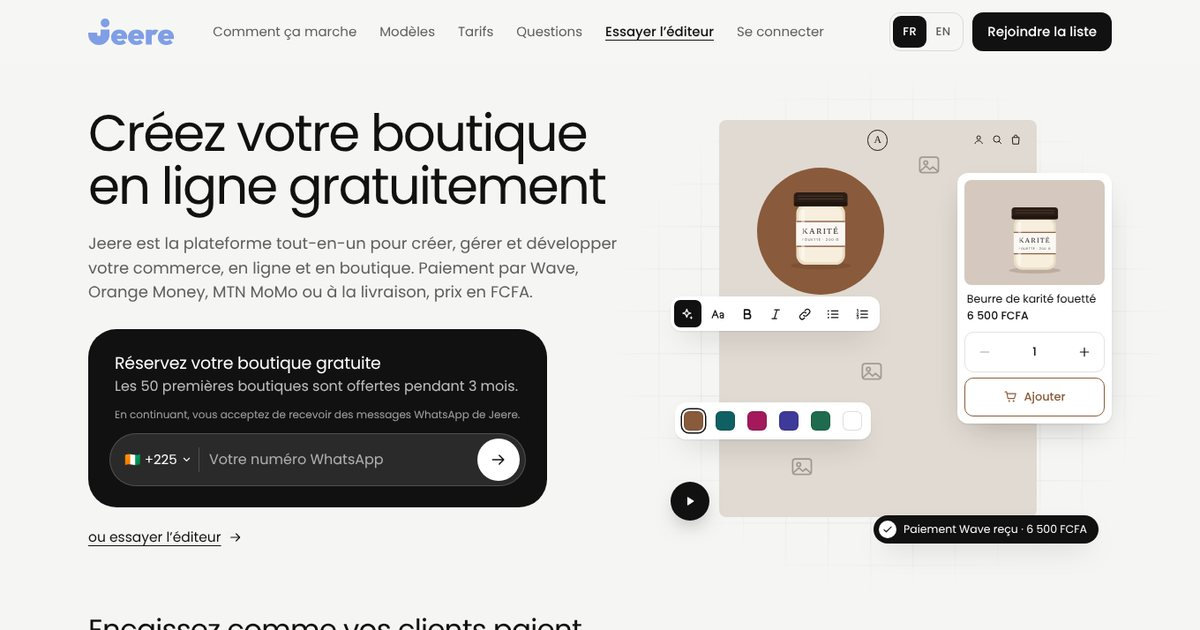
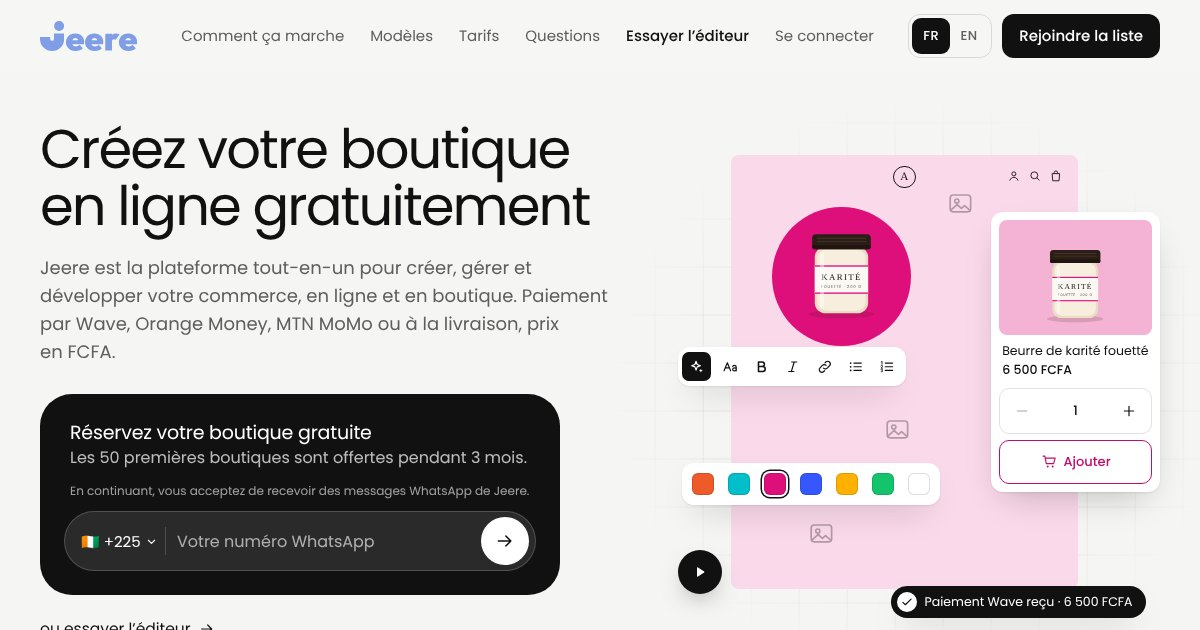
Jeere: pop, vivid store colours
The 8 store palettes get bright, saturated accents (terracotta, turquoise,
fuchsia, electric blue, mango yellow, green, lime) on a light tint of the
same hue. Ids and colour families stay, so the assistant's colour words
still pick the same palette. Bright accents carry dark text; pink and blue
carry white. The accent is a fill only: outline buttons now draw their
border in the readable accent ink, and the WhatsApp block's secondary text
uses onAccentSoft, so the audit finds no text under 4.5:1.

The landing hero swatches (now with Mangue), the template mock-ups, the
editor's palette chips (the strong colour fills the chip) and the share
image follow the new colours.

Claude-Session: https://claude.ai/code/session_01TKxGnF4zXs9pxkErArM8zK

diff --git a/concepts/jeere/style.css b/concepts/jeere/style.css
@@ -227,25 +227,28 @@ ul, ol { padding: 0; list-style: none; }
 /* ---------- Editor canvas (hero) ----------
    A store page being edited, on a faint grid, with floating editor tools. Its colours come from
    --hc-* (the store palette); the swatches change data-tint, and the registered properties fade. */
-@property --hc-accent { syntax: '<color>'; inherits: true; initial-value: #8A5A3C; }
-@property --hc-bg { syntax: '<color>'; inherits: true; initial-value: #E1DAD3; }
-@property --hc-soft { syntax: '<color>'; inherits: true; initial-value: #D6CABF; }
+@property --hc-accent { syntax: '<color>'; inherits: true; initial-value: #EE5A2A; }
+@property --hc-bg { syntax: '<color>'; inherits: true; initial-value: #FCE5DD; }
+@property --hc-soft { syntax: '<color>'; inherits: true; initial-value: #FACABB; }
+@property --hc-deep { syntax: '<color>'; inherits: true; initial-value: #B8380F; }
 .cv {
   --hc-ink: #1A1512;
-  --hc-accent: #8A5A3C;
-  --hc-bg: color-mix(in srgb, var(--hc-accent) 12%, #EDEBE7);
-  --hc-soft: color-mix(in srgb, var(--hc-accent) 24%, #EDEBE7);
+  --hc-accent: #EE5A2A;
+  --hc-deep: #B8380F; /* the accent deepened to 4.5:1 on white: the "Ajouter" button text */
+  --hc-bg: color-mix(in srgb, var(--hc-accent) 16%, #FFFFFF);
+  --hc-soft: color-mix(in srgb, var(--hc-accent) 32%, #FFFFFF);
   position: relative; width: 100%; max-width: 540px; margin: 0 auto; aspect-ratio: 330 / 490;
   font-size: 11px; font-size: clamp(10px, 2.6cqw, 13px);
-  transition: --hc-accent .4s ease, --hc-bg .4s ease, --hc-soft .4s ease;
+  transition: --hc-accent .4s ease, --hc-bg .4s ease, --hc-soft .4s ease, --hc-deep .4s ease;
 }
-.cv[data-tint="lagune"] { --hc-accent: #0F5F63; }
-.cv[data-tint="hibiscus"] { --hc-accent: #A3195B; }
-.cv[data-tint="indigo"] { --hc-accent: #3E3A99; }
-.cv[data-tint="menthe"] { --hc-accent: #1E6B4E; }
-.cv[data-tint="blanc"] { --hc-accent: #111111; --hc-bg: #FFFFFF; --hc-soft: #EFEEEB; }
+.cv[data-tint="lagune"] { --hc-accent: #00BFCB; --hc-deep: #007279; }
+.cv[data-tint="hibiscus"] { --hc-accent: #DE0F7B; --hc-deep: #C10D6B; }
+.cv[data-tint="indigo"] { --hc-accent: #3657FF; --hc-deep: #2C4EFF; }
+.cv[data-tint="mangue"] { --hc-accent: #FFB000; --hc-deep: #8F6300; }
+.cv[data-tint="menthe"] { --hc-accent: #14C46C; --hc-deep: #0C7A43; }
+.cv[data-tint="blanc"] { --hc-accent: #111111; --hc-deep: #111111; --hc-bg: #FFFFFF; --hc-soft: #EFEEEB; }
 /* Older browsers without color-mix(): keep a warm page whatever the palette */
-@supports not (color: color-mix(in srgb, red, red)) { .cv:not([data-tint="blanc"]) { --hc-bg: #E1DAD3; --hc-soft: #D6CABF; } }
+@supports not (color: color-mix(in srgb, red, red)) { .cv:not([data-tint="blanc"]) { --hc-bg: #FCE5DD; --hc-soft: #FACABB; } }
 
 .cv__grid {
   position: absolute; inset: -10% -14%;
@@ -305,7 +308,7 @@ ul, ol { padding: 0; list-style: none; }
 .cv__step output { font-size: 13px; font-weight: 500; font-variant-numeric: tabular-nums; }
 .cv__add {
   display: flex; align-items: center; justify-content: center; gap: 6px; width: 100%; height: 44px; margin-top: 6px; padding: 0;
-  border: 1.5px solid var(--hc-accent); border-radius: 10px; background: none; color: var(--hc-accent); font: 500 13px/1 var(--f-text); cursor: pointer;
+  border: 1.5px solid var(--hc-deep); border-radius: 10px; background: none; color: var(--hc-deep); font: 500 13px/1 var(--f-text); cursor: pointer;
 }
 .cv__add .ico { width: 17px; height: 17px; }
 .cv__add:hover { background: color-mix(in srgb, var(--hc-accent) 7%, transparent); }
@@ -505,36 +508,36 @@ html:not(.js) .cv__play { display: none; }
 .mini__item b { display: block; font-size: .92em; margin-top: 1px; }
 .art { position: relative; aspect-ratio: 4 / 5; overflow: hidden; }
 
-.mini--plateau { background: #FBF8F4; }
+.mini--plateau { background: #FFFFFF; }
 .mini--plateau .mini__name { font: 500 12px/1 var(--f-display); letter-spacing: .24em; }
 .mini__hero { position: relative; margin: 0 12px 14px; }
-.mini__hero .art { aspect-ratio: 4 / 4.6; background: #D9C7B2; }
-.art--arch::before { content: ''; position: absolute; left: 34%; right: 10%; top: 12%; bottom: 0; border-radius: 999px 999px 0 0; background: #9C6B4E; }
-.art--arch::after { content: ''; position: absolute; left: 47%; right: 23%; top: 28%; bottom: 0; border-radius: 999px 999px 0 0; background: #EADCCB; }
-.mini__hero::after { content: ''; position: absolute; inset: 45% 0 0; background: linear-gradient(transparent, rgba(40, 24, 16, .62)); }
+.mini__hero .art { aspect-ratio: 4 / 4.6; background: #00BFCB; }
+.art--arch::before { content: ''; position: absolute; left: 34%; right: 10%; top: 12%; bottom: 0; border-radius: 999px 999px 0 0; background: #FFB000; }
+.art--arch::after { content: ''; position: absolute; left: 47%; right: 23%; top: 28%; bottom: 0; border-radius: 999px 999px 0 0; background: #FFF2D6; }
+.mini__hero::after { content: ''; position: absolute; inset: 58% 0 0; background: linear-gradient(transparent, rgba(4, 39, 43, .86) 62%); }
 .mini__kicker { position: absolute; z-index: 1; left: 14px; bottom: 44px; font-size: .8em; letter-spacing: .14em; text-transform: uppercase; color: #FBF8F4; }
 .mini__headline { position: absolute; z-index: 1; left: 12px; bottom: 8px; font: italic 500 30px/1 var(--f-display); letter-spacing: -.03em; color: #FBF8F4; }
-.mini--plateau .art--p1 { background: linear-gradient(#E8E0D6, #E8E0D6); }
-.mini--plateau .art--p1::before { content: ''; position: absolute; left: 30%; right: 30%; top: 16%; bottom: 10%; border-radius: 40% 40% 6px 6px; background: #B5532E; }
-.mini--plateau .art--p2 { background: #CFC2B2; }
-.mini--plateau .art--p2::before { content: ''; position: absolute; left: 26%; right: 26%; top: 18%; bottom: 10%; border-radius: 6px; background: #F3EDE4; }
+.mini--plateau .art--p1 { background: linear-gradient(#FFE29E, #FFE29E); }
+.mini--plateau .art--p1::before { content: ''; position: absolute; left: 30%; right: 30%; top: 16%; bottom: 10%; border-radius: 40% 40% 6px 6px; background: #DE0F7B; }
+.mini--plateau .art--p2 { background: #3657FF; }
+.mini--plateau .art--p2::before { content: ''; position: absolute; left: 26%; right: 26%; top: 18%; bottom: 10%; border-radius: 6px; background: #FFFFFF; }
 .mini--plateau .mini__item p { font-weight: 400; }
 .mini--plateau .mini__item b { font-weight: 400; color: var(--muted); }
 
-.mini--cocody { background: #FFF6F2; }
+.mini--cocody { background: #FFEDF5; }
 .mini--cocody .mini__name { font: 500 16px/1 var(--f-text); letter-spacing: -.01em; }
-.mini__banner { position: relative; margin: 0 12px 12px; padding: 18px 16px; min-height: 120px; border-radius: 20px; background: #F7DCD5; overflow: hidden; }
-.mini__banner p { position: relative; font: 500 1.35em/1.15 var(--f-text); letter-spacing: -.02em; max-width: 60%; color: #5A2C2A; z-index: 1; }
-.art--c0 { position: absolute; right: -10px; bottom: -18px; width: 110px; aspect-ratio: 1; border-radius: 50%; background: #EFB8A9; }
-.art--c0::after { content: ''; position: absolute; inset: 26%; border-radius: 50%; background: #FCEDE8; }
+.mini__banner { position: relative; margin: 0 12px 12px; padding: 18px 16px; min-height: 120px; border-radius: 20px; background: #F7ABD2; overflow: hidden; }
+.mini__banner p { position: relative; font: 500 1.35em/1.15 var(--f-text); letter-spacing: -.02em; max-width: 60%; color: #2E0618; z-index: 1; }
+.art--c0 { position: absolute; right: -10px; bottom: -18px; width: 110px; aspect-ratio: 1; border-radius: 50%; background: #DE0F7B; }
+.art--c0::after { content: ''; position: absolute; inset: 26%; border-radius: 50%; background: #FFFFFF; }
 .mini__chips { display: flex; gap: 6px; padding: 0 12px 12px; }
 .mini__chips span { padding: 5px 11px; border-radius: 999px; background: #fff; font-size: .88em; font-weight: 400; }
-.mini__chips .is-on { background: #5A2C2A; color: #FFF6F2; }
+.mini__chips .is-on { background: #DE0F7B; color: #FFFFFF; }
 .mini--cocody .art { aspect-ratio: 1; border-radius: 18px; }
-.art--c1 { background: #F3E5D3; } .art--c2 { background: #E3E6D8; } .art--c3 { background: #F6E3DF; } .art--c4 { background: #EDE2F0; }
-.mini--cocody .art::before { content: ''; position: absolute; left: 30%; right: 30%; top: 26%; bottom: 18%; border-radius: 10px 10px 14px 14px; background: rgba(255, 255, 255, .85); box-shadow: 0 -8px 0 -2px rgba(90, 44, 42, .55); }
+.art--c1 { background: #FFE29E; } .art--c2 { background: #AAEAC9; } .art--c3 { background: #F7ABD2; } .art--c4 { background: #B8C3FF; }
+.mini--cocody .art::before { content: ''; position: absolute; left: 30%; right: 30%; top: 26%; bottom: 18%; border-radius: 10px 10px 14px 14px; background: rgba(255, 255, 255, .85); box-shadow: 0 -8px 0 -2px rgba(46, 6, 24, .5); }
 .art--c2::before { border-radius: 40% !important; left: 24% !important; right: 24% !important; top: 34% !important; box-shadow: none !important; background: #6E5A48 !important; }
-.mini--cocody .mini__item b { color: #5A2C2A; }
+.mini--cocody .mini__item b { color: #C10D6B; }
 
 .mini--treichville { background: var(--ink); color: #fff; }
 .mini--treichville .mini__name { font: 600 15px/1 var(--f-text); letter-spacing: .02em; }

diff --git a/concepts/jeere/creer/data.js b/concepts/jeere/creer/data.js
@@ -228,19 +228,23 @@
   ]);
 
   /* ------------------------------------------------------------------ palettes
+   * Pop colours: a light tint of the hue behind the page, a bright, saturated accent.
    * WCAG contrast (checked): text/bg >= 7, text/surface >= 7, muted/bg >= 4.5,
-   * onAccent/accent >= 4.5, accent/bg >= 3. Only `line` may be rgba.
+   * onAccent/accent >= 4.5 (dark text on the bright accents, white on pink and blue).
+   * The accent is a fill (buttons, bars, blocks): where it would be text or a thin line on the
+   * page, the renderer uses a deepened accent (accentText, accentInk) that reads at 4.5:1,
+   * so a bright yellow or turquoise accent is fine. Only `line` may be rgba.
    */
 
   var palettes = collection([
-    { id: 'sable', name: 'Sable', colors: { bg: '#F6F2EA', surface: '#FFFFFF', text: '#1B1814', muted: '#655C52', accent: '#1F1B16', onAccent: '#FFFFFF', line: 'rgba(27,24,20,0.14)' } },
-    { id: 'karite', name: 'Karité', colors: { bg: '#FBF4E8', surface: '#F2E6D3', text: '#2B1D12', muted: '#6A5543', accent: '#8B5A2B', onAccent: '#FFFFFF', line: 'rgba(43,29,18,0.14)' } },
-    { id: 'lagune', name: 'Lagune', colors: { bg: '#FFFFFF', surface: '#EAF4F3', text: '#0E2023', muted: '#4C6064', accent: '#0B5D64', onAccent: '#FFFFFF', line: 'rgba(14,32,35,0.13)' } },
-    { id: 'hibiscus', name: 'Hibiscus', colors: { bg: '#FCEFF2', surface: '#FFFFFF', text: '#2B1119', muted: '#714D58', accent: '#A3164B', onAccent: '#FFFFFF', line: 'rgba(43,17,25,0.12)' } },
-    { id: 'indigo', name: 'Indigo', colors: { bg: '#F1F2F6', surface: '#FFFFFF', text: '#15172C', muted: '#525672', accent: '#3A3EA6', onAccent: '#FFFFFF', line: 'rgba(21,23,44,0.12)' } },
-    { id: 'mangue', name: 'Mangue', colors: { bg: '#FFF5E6', surface: '#FFFFFF', text: '#24170A', muted: '#6B5236', accent: '#D66D0A', onAccent: '#1F1306', line: 'rgba(36,23,10,0.13)' } },
-    { id: 'menthe', name: 'Menthe', colors: { bg: '#EDF6F0', surface: '#FFFFFF', text: '#0F2419', muted: '#4A6254', accent: '#1D6A45', onAccent: '#FFFFFF', line: 'rgba(15,36,25,0.13)' } },
-    { id: 'nuit', name: 'Nuit', colors: { bg: '#111311', surface: '#1D201D', text: '#F3F4EE', muted: '#A4A99F', accent: '#C8F135', onAccent: '#111311', line: 'rgba(243,244,238,0.14)' } }
+    { id: 'sable', name: 'Sable', colors: { bg: '#F5F4F0', surface: '#FFFFFF', text: '#111111', muted: '#5B5A56', accent: '#111111', onAccent: '#FFFFFF', line: 'rgba(17,17,17,0.13)' } },
+    { id: 'karite', name: 'Karité', colors: { bg: '#FFF1E7', surface: '#FFFFFF', text: '#2B1308', muted: '#77442B', accent: '#EE5A2A', onAccent: '#1F0B03', line: 'rgba(43,19,8,0.13)' } },
+    { id: 'lagune', name: 'Lagune', colors: { bg: '#ECFBFB', surface: '#FFFFFF', text: '#052326', muted: '#2F5F63', accent: '#00BFCB', onAccent: '#04272B', line: 'rgba(5,35,38,0.13)' } },
+    { id: 'hibiscus', name: 'Hibiscus', colors: { bg: '#FFEDF5', surface: '#FFFFFF', text: '#2E0618', muted: '#7D3556', accent: '#DE0F7B', onAccent: '#FFFFFF', line: 'rgba(46,6,24,0.12)' } },
+    { id: 'indigo', name: 'Indigo', colors: { bg: '#EFF1FF', surface: '#FFFFFF', text: '#0C1342', muted: '#454E86', accent: '#3657FF', onAccent: '#FFFFFF', line: 'rgba(12,19,66,0.12)' } },
+    { id: 'mangue', name: 'Mangue', colors: { bg: '#FFF7E1', surface: '#FFFFFF', text: '#261800', muted: '#6E5418', accent: '#FFB000', onAccent: '#261800', line: 'rgba(38,24,0,0.13)' } },
+    { id: 'menthe', name: 'Menthe', colors: { bg: '#EAFBF1', surface: '#FFFFFF', text: '#05261A', muted: '#2F5E47', accent: '#14C46C', onAccent: '#05261A', line: 'rgba(5,38,26,0.13)' } },
+    { id: 'nuit', name: 'Nuit', colors: { bg: '#0F100F', surface: '#1C1E1C', text: '#F4F5EF', muted: '#A6AB9F', accent: '#CCFF33', onAccent: '#0F100F', line: 'rgba(244,245,239,0.14)' } }
   ]);
 
   /* ------------------------------------------------------------------ font pairs

diff --git a/concepts/jeere/index.html b/concepts/jeere/index.html
@@ -79,8 +79,8 @@
       <rect x="40" y="78" width="120" height="150" rx="24" fill="#EBDDC4"/>
       <rect x="46" y="84" width="108" height="138" rx="20" fill="#F7EEDD"/>
       <rect x="40" y="120" width="120" height="64" fill="#FBF8F4"/>
-      <rect class="jar__band" x="40" y="120" width="120" height="3" fill="var(--hc-accent, #8A5A3C)"/>
-      <rect class="jar__band" x="40" y="181" width="120" height="3" fill="var(--hc-accent, #8A5A3C)"/>
+      <rect class="jar__band" x="40" y="120" width="120" height="3" fill="var(--hc-accent, #EE5A2A)"/>
+      <rect class="jar__band" x="40" y="181" width="120" height="3" fill="var(--hc-accent, #EE5A2A)"/>
       <text x="100" y="152" text-anchor="middle" font-family="Georgia, 'Times New Roman', serif" font-size="20" letter-spacing="3" fill="#1A1512">KARITÉ</text>
       <text x="100" y="170" text-anchor="middle" font-family="Poppins, Arial, sans-serif" font-size="9" letter-spacing="1.5" fill="#5C524B">FOUETTÉ · 200 G</text>
       <rect x="52" y="92" width="9" height="124" rx="4.5" fill="#fff" opacity=".45"/>
@@ -186,11 +186,12 @@
           </div>
           <div class="cv__ui" role="group" aria-label="Aperçu interactif" data-i18n-attr="aria-label:hero.ui" inert>
             <div class="cv__float cv__tray">
-              <button class="cv__sw" type="button" data-swatch="karite" style="--sw:#8A5A3C" aria-pressed="true" aria-label="Couleur Karité" data-i18n-attr="aria-label:hero.swatch.karite"></button>
-              <button class="cv__sw" type="button" data-swatch="lagune" style="--sw:#0F5F63" aria-pressed="false" aria-label="Couleur Lagune" data-i18n-attr="aria-label:hero.swatch.lagune"></button>
-              <button class="cv__sw" type="button" data-swatch="hibiscus" style="--sw:#A3195B" aria-pressed="false" aria-label="Couleur Hibiscus" data-i18n-attr="aria-label:hero.swatch.hibiscus"></button>
-              <button class="cv__sw" type="button" data-swatch="indigo" style="--sw:#3E3A99" aria-pressed="false" aria-label="Couleur Indigo" data-i18n-attr="aria-label:hero.swatch.indigo"></button>
-              <button class="cv__sw" type="button" data-swatch="menthe" style="--sw:#1E6B4E" aria-pressed="false" aria-label="Couleur Menthe" data-i18n-attr="aria-label:hero.swatch.menthe"></button>
+              <button class="cv__sw" type="button" data-swatch="karite" style="--sw:#EE5A2A" aria-pressed="true" aria-label="Couleur Karité" data-i18n-attr="aria-label:hero.swatch.karite"></button>
+              <button class="cv__sw" type="button" data-swatch="lagune" style="--sw:#00BFCB" aria-pressed="false" aria-label="Couleur Lagune" data-i18n-attr="aria-label:hero.swatch.lagune"></button>
+              <button class="cv__sw" type="button" data-swatch="hibiscus" style="--sw:#DE0F7B" aria-pressed="false" aria-label="Couleur Hibiscus" data-i18n-attr="aria-label:hero.swatch.hibiscus"></button>
+              <button class="cv__sw" type="button" data-swatch="indigo" style="--sw:#3657FF" aria-pressed="false" aria-label="Couleur Indigo" data-i18n-attr="aria-label:hero.swatch.indigo"></button>
+              <button class="cv__sw" type="button" data-swatch="mangue" style="--sw:#FFB000" aria-pressed="false" aria-label="Couleur Mangue" data-i18n-attr="aria-label:hero.swatch.mangue"></button>
+              <button class="cv__sw" type="button" data-swatch="menthe" style="--sw:#14C46C" aria-pressed="false" aria-label="Couleur Menthe" data-i18n-attr="aria-label:hero.swatch.menthe"></button>
               <button class="cv__sw" type="button" data-swatch="blanc" style="--sw:#FFFFFF" aria-pressed="false" aria-label="Couleur Blanc" data-i18n-attr="aria-label:hero.swatch.blanc"></button>
             </div>
             <div class="cv__float cv__card">

diff --git a/concepts/jeere/creer/store.css b/concepts/jeere/creer/store.css
@@ -108,7 +108,7 @@
 .jst .jst-btn--sm { min-height: 38px; padding: 0 12px; font-size: 13px; gap: 6px; white-space: nowrap; }
 .jst .jst-btn--sm .jst-ico { width: 16px; height: 16px; }
 .jst .jst-btn--block { width: 100%; }
-.jst[data-buttons="outline"] .jst-btn { background: transparent; color: var(--st-accent-ink); }
+.jst[data-buttons="outline"] .jst-btn { background: transparent; color: var(--st-accent-ink); border-color: var(--st-accent-ink); }
 .jst .jst-on-accent .jst-btn { background: var(--st-on-accent); color: var(--st-accent); border-color: var(--st-on-accent); }
 .jst[data-buttons="outline"] .jst-on-accent .jst-btn { background: transparent; color: var(--st-on-accent); }
 .jst[data-device="desktop"] .jst-btn:hover { transform: translateY(-1px); box-shadow: 0 8px 20px -10px rgba(0, 0, 0, .45); }
@@ -286,7 +286,7 @@
 .jst .jst-wa-ico .jst-ico { width: 26px; height: 26px; }
 .jst .jst-wa-copy { min-width: 0; }
 .jst .jst-wa-title { font-size: 28px; }
-.jst .jst-wa-text { margin-top: 12px; font-size: 15px; line-height: 1.6; opacity: .88; overflow-wrap: anywhere; }
+.jst .jst-wa-text { margin-top: 12px; font-size: 15px; line-height: 1.6; color: var(--st-on-accent-soft); overflow-wrap: anywhere; }
 .jst .jst-wa-cta { display: flex; flex-direction: column; align-items: inherit; gap: 12px; margin-top: 24px; min-width: 0; }
 .jst .jst-wa-num { font-size: 13px; font-weight: 500; letter-spacing: .04em; white-space: nowrap; }
 

diff --git a/concepts/jeere/creer/builder.css b/concepts/jeere/creer/builder.css
@@ -553,9 +553,8 @@ html.b-modal-open, html.b-modal-open body { overflow: hidden; }
 .b-pal__sw { position: relative; display: grid; place-items: center; aspect-ratio: 1 / 1; border-radius: 12px; box-shadow: inset 0 0 0 1px rgba(17, 17, 17, .14); transition: box-shadow .15s; }
 .b-pal:hover .b-pal__sw { box-shadow: inset 0 0 0 1px rgba(17, 17, 17, .14), 0 0 0 2px var(--white), 0 0 0 3px rgba(17, 17, 17, .3); }
 .b-pal[aria-pressed="true"] .b-pal__sw { box-shadow: inset 0 0 0 1px rgba(17, 17, 17, .14), 0 0 0 2px var(--white), 0 0 0 4px var(--ink); }
-.b-pal__aa { font: 500 19px/1 var(--b-font); }
-.b-pal__dots { position: absolute; right: 6px; bottom: 6px; display: flex; gap: 3px; }
-.b-pal__dots i { width: 11px; height: 11px; border-radius: 50%; box-shadow: 0 0 0 1px rgba(128, 128, 128, .4); }
+.b-pal__sw { overflow: hidden; background: linear-gradient(var(--pa, #111111) 0 70%, var(--pb, #F5F5F3) 70% 100%); color: var(--po, #FFFFFF); }
+.b-pal__aa { margin-bottom: 30%; font: 500 19px/1 var(--b-font); }
 .b-pal__name { font-size: 12px; font-weight: 400; line-height: 1.3; }
 .b-pal[aria-pressed="true"] .b-pal__name { font-weight: 600; }
 

diff --git a/concepts/jeere/creer/editor.js b/concepts/jeere/creer/editor.js
@@ -1565,11 +1565,9 @@
         type: 'button', class: 'b-pal', 'aria-pressed': String(th.palette === p.id), 'data-fk': 'pal-' + p.id, 'aria-label': `Couleurs ${p.name}`,
         on: { click: () => setTheme('palette', p.id, `Couleurs ${p.name}`) }
       },
-        el('span', { class: 'b-pal__sw', style: `background:${c.bg};color:${c.text}` },
-          el('span', { class: 'b-pal__aa', text: 'Aa' }),
-          el('span', { class: 'b-pal__dots' },
-            el('i', { style: `background:${c.accent}` }),
-            el('i', { style: `background:${c.surface}` }))),
+        // The strong colour fills the chip (« Aa » in its text colour), the page background below
+        el('span', { class: 'b-pal__sw', style: `--pa:${c.accent};--po:${c.onAccent};--pb:${c.bg}` },
+          el('span', { class: 'b-pal__aa', text: 'Aa' })),
         el('span', { class: 'b-pal__name', text: p.name })));
     });
     tp.append(group('b-g-theme-palette', 'Palette', 'Une couleur de fond, une couleur forte pour les boutons et les blocs.', pals));

diff --git a/concepts/jeere/creer/wizard.js b/concepts/jeere/creer/wizard.js
@@ -49,14 +49,14 @@
       help: 'grands titres en capitales, blocs de couleur et contraste fort.' }
   };
   const PALETTE_DESC = {
-    sable: 'sable clair et noir doux',
-    karite: 'crème et brun chaud',
-    lagune: 'blanc et bleu-vert profond',
-    hibiscus: 'rose poudré et framboise',
-    indigo: 'gris clair et indigo',
-    mangue: 'crème et orange mangue',
-    menthe: 'menthe pâle et vert profond',
-    nuit: 'fond noir et vert acidulé'
+    sable: 'blanc cassé et noir',
+    karite: 'pêche clair et terracotta vif',
+    lagune: 'blanc bleuté et turquoise vif',
+    hibiscus: 'rose clair et rose fuchsia',
+    indigo: 'bleu très clair et bleu électrique',
+    mangue: 'crème et jaune mangue',
+    menthe: 'vert d’eau et vert vif',
+    nuit: 'fond noir et vert fluo'
   };
   const NICHE_COPY = {
     fashion: { shop: 'une boutique de mode', short: 'la mode', alt: 'vêtements' },

diff --git a/concepts/jeere/i18n.js b/concepts/jeere/i18n.js
@@ -33,6 +33,7 @@ window.JEERE_EN = {
   'hero.swatch.lagune': 'Lagune colour',
   'hero.swatch.hibiscus': 'Hibiscus colour',
   'hero.swatch.indigo': 'Indigo colour',
+  'hero.swatch.mangue': 'Mangue colour',
   'hero.swatch.menthe': 'Menthe colour',
   'hero.swatch.blanc': 'White',
   'hero.product': 'Whipped shea butter',

diff --git a/concepts/jeere/creer/README.md b/concepts/jeere/creer/README.md
@@ -389,34 +389,43 @@ JEERE_DATA.DEFAULT_INTENSITY = 'vivid';
   `validate` reports any other value as an error with target `{ kind: 'theme', id: 'intensity' }`
   (a missing value is not an error: it reads as vivid).
 
+**Pop colours.** The palettes are bright and saturated on purpose (3 November 2026: the sellers
+want « des couleurs pop, vivantes »): a light tint of the hue behind the page and a vivid accent,
+terracotta, turquoise, fuchsia, electric blue, mango yellow, green and lime. The bright accents
+carry dark text (`onAccent` near-black on Karité, Lagune, Mangue, Menthe and Nuit), the pink and
+the blue carry white. The ids and the colour families stay, so the assistant's colour words
+(« rose », « jaune », « turquoise »…) still pick the same palette.
+
 **Contrast budget** (WCAG, computed from the palettes in `data.js`; must hold for 8 palettes × 3
 templates × 2 intensities). An automated pass over 8 palettes × 3 templates × 2 intensities × 5
 pages × 2 devices (with the checkout's commune error and the phone order summary open) finds no
-text under 4.5:1 (3:1 for large text); text drawn on product tiles and photos is not counted. On accent backgrounds, text uses `onAccent`; on tinted backgrounds,
-text uses `text`. `text` keeps at least 10.7:1 on every tint up to 18 %, but `muted` and accent
-coloured text need care:
+text under 4.5:1 (3:1 for large text); text drawn on product tiles and photos is not counted. On accent backgrounds, text uses `onAccent` (and `onAccentSoft` for secondary text); on tinted backgrounds,
+text uses `text`, which keeps at least 10:1 on every tint up to 30 %.
 
-| Palette | onAccent / accent | accent / bg | muted on 10 % / 14 % / 18 % tint | Max tint for muted ≥ 4.5 | accent text on 10 % / 18 % tint |
-| --- | --- | --- | --- | --- | --- |
-| Sable | 17.12 | 15.33 | 4.84 / 4.43 / 4.05 | 13 % | 12.64 / 10.59 |
-| Karité | 5.84 | 5.34 | 5.64 / 5.30 / 5.02 | 25 % | 4.69 / 4.18 |
-| Lagune | 7.60 | 7.60 | 5.69 / 5.31 / 4.98 | 23 % | 6.51 / 5.70 |
-| Hibiscus | 7.57 | 6.77 | 5.45 / 5.11 / 4.74 | 20 % | 5.70 / 4.97 |
-| Indigo | 8.68 | 7.76 | 5.47 / 5.12 / 4.80 | 21 % | 6.63 / 5.81 |
-| Mangue | 5.24 | 3.22 | 6.05 / 5.80 / 5.57 | 36 % | 2.88 / 2.66 |
-| Menthe | 6.56 | 5.95 | 5.22 / 4.91 / 4.65 | 19 % | 5.17 / 4.60 |
-| Nuit | 14.30 | 14.30 | 6.26 / 5.57 / 4.94 | 20 % | 11.50 / 9.07 |
+| Palette | onAccent / accent | accent / bg | text / bg | muted on 10 % / 14 % / 18 % tint | Max tint for muted ≥ 4.5 | raw accent as text on bg / 18 % tint |
+| --- | --- | --- | --- | --- | --- | --- |
+| Sable | 18.88 | 17.16 | 17.16 | 5.08 / 4.66 / 4.26 | 15 % | 17.16 / 11.64 |
+| Karité | 5.54 | 3.10 | 15.83 | 6.43 / 6.16 / 5.88 | 40 % | 3.10 / 2.54 |
+| Lagune | 7.00 | 2.12 | 15.50 | 6.19 / 6.01 / 5.80 | 50 % | 2.12 / 1.83 |
+| Hibiscus | 4.71 | 4.19 | 16.17 | 6.37 / 5.97 / 5.60 | 31 % | 4.19 / 3.16 |
+| Indigo | 5.30 | 4.72 | 15.74 | 6.09 / 5.73 / 5.43 | 30 % | 4.72 / 3.68 |
+| Mangue | 9.45 | 1.71 | 16.19 | 6.31 / 6.16 / 6.02 | 60 % | 1.71 / 1.55 |
+| Menthe | 7.04 | 2.14 | 15.07 | 6.45 / 6.20 / 6.01 | 54 % | 2.14 / 1.85 |
+| Nuit | 16.27 | 16.27 | 17.39 | 6.48 / 5.80 / 5.06 | 21 % | 16.27 / 10.14 |
+
+The raw accent is a **fill**: the announcement bar, the hero blocks, solid buttons, badges and
+selected states, always with `onAccent` on it. It is never small text on the page: prices, stars,
+links and outline buttons (text and border) use `--st-accent-text` / `--st-accent-ink`, the accent
+deepened by `readable()` in `render.js` until it reads at 4.5:1 on the background, the surface and
+both tints. That is why a yellow (Mangue, 1.71:1 on its background) or a turquoise (Lagune) accent
+is fine. Sable's vivid tints are deeper shades of its background (its accent is black), and the
+renderer keeps `muted` readable on them (`mutedTint`, `mutedStrong`).
 
 Nuit is dark, and a bright accent mixed into near-black turns olive: its vivid « tints » are not
-accent mixes but neutral raised surfaces, `surface` (#1D201D) and `surface` + 7 % `text`
-(#2C2F2C). There, `muted` reads 6.86:1 and 5.65:1, `text` 12.25:1 on the stronger one, the lime
-accent 12.60:1 and 10.38:1; the lime itself fills the announcement bar, the hero blocks, the
-buttons, the badges and the selected states. Plateau on a dark palette puts the hero text on the
-stronger surface with a lime title, a lime top rule and a lime button, instead of a neon slab.
-
-So: keep Sable tints at 12 % or less (or use `text` instead of `muted` on them); Mangue's accent
-(3.22:1 on its background) is for large text, buttons, badges with `onAccent` and graphics only,
-never for small text such as prices; Karité's accent text needs a tint of 12 % or less. Tint =
+accent mixes but neutral raised surfaces, `surface` (#1C1E1C) and `surface` + 7 % `text`. The lime
+(#CCFF33) fills the announcement bar, the hero blocks, the buttons, the badges and the selected
+states. Plateau on a dark palette puts the hero text on the stronger surface with a lime title, a
+lime top rule and a lime button, instead of a neon slab. Tint =
 `color-mix(in srgb, accent p%, bg)`.
 
 ## The logo

diff --git a/concepts/jeere/creer/prompts.md b/concepts/jeere/creer/prompts.md
@@ -224,8 +224,8 @@ MODÈLES (template) :
 - cocody : Cocody, style Doux. Des cartes arrondies, des couleurs tendres et des catégories faciles à parcourir. Idéal pour : Beauté, perruques, artisanat et petits créateurs. Par défaut : palette hibiscus, polices doux, angles round, boutons solid.
 - treichville : Treichville, style Audacieux. De grands titres en capitales, des blocs de couleur et un contraste fort qui attire l’œil. Idéal pour : Sneakers, streetwear, restauration et promotions. Par défaut : palette nuit, polices audacieux, angles none, boutons solid.
 PALETTES (theme.palette) :
-- sable : Sable (blanc cassé chaud, accent presque noir)
-- karite : Karité (crème, accent brun chaud)
+- sable : Sable (blanc cassé, accent noir)
+- karite : Karité (pêche clair, accent terracotta vif)
 ...
 COULEURS (theme.intensity) : vivid (Vives, par défaut : votre couleur habille toute la boutique), soft (Douces : des fonds clairs, la couleur en touches). Un style doux (cocody) n’est pas la même chose que des couleurs douces.
 ...
@@ -959,10 +959,10 @@ function extraireNumero(texte: string): { numero: string; reste: string } {
 // Le catalogue de la partie 3.4, construit depuis data.js : le prompt ne peut pas diverger de l'éditeur.
 export function catalogueForPrompt(): string {
   const intention: Record<string, string> = {
-    sable: "blanc cassé chaud, accent presque noir", karite: "crème, accent brun chaud",
-    lagune: "blanc, accent bleu-vert profond", hibiscus: "rose poudré, accent framboise",
-    indigo: "gris clair froid, accent indigo", mangue: "crème chaude, accent orange mangue",
-    menthe: "vert d’eau, accent vert profond", nuit: "fond presque noir, texte clair, accent vert acide",
+    sable: "blanc cassé, accent noir", karite: "pêche clair, accent terracotta vif",
+    lagune: "blanc bleuté, accent turquoise vif", hibiscus: "rose clair, accent rose fuchsia",
+    indigo: "bleu très clair, accent bleu électrique", mangue: "crème, accent jaune mangue",
+    menthe: "vert d’eau, accent vert vif", nuit: "fond presque noir, texte clair, accent vert fluo",
   };
   const L: string[] = ['<catalogue_jeere version="1">', "MODÈLES (template) :"];
   // deno-lint-ignore no-explicit-any

diff --git a/concepts/jeere/README.md b/concepts/jeere/README.md
@@ -49,7 +49,7 @@ Numbers are personal data: keep the table private, and delete a row when someone
   delivery) beside a large J. The favicon is the white J on a blue rounded square.
 - **Name**: always written « Jeere » (only the J in capital), never « JEERE ».
 - **Text weights**: light on purpose: titles in Poppins 400, buttons and labels 500, body 400.
-- **Colours**: black and white only. White `#FFFFFF`, greys `#F5F5F3` / `#EBEBE8`, ink
+- **Colours**: black and white only for Jeere itself. White `#FFFFFF`, greys `#F5F5F3` / `#EBEBE8`, ink
   `#111111`, muted text `#5E5E5E`. No accent colour: the sellers’ photos and stores bring the
   colour, so only the demo stores and product pictures on the page are in colour.
 - **Type**: Poppins (SIL OFL) for everything. Poppins has no ɛ, ɔ or ŋ (needed for Dioula and
@@ -62,7 +62,7 @@ Numbers are personal data: keep the table private, and delete a row when someone
    WhatsApp number. The card sends nothing: it copies the number into the waitlist form, scrolls there and asks for
    the first name (without JavaScript it simply links to the waitlist). On the right, an editor canvas on a faint grid:
    a store page (shea butter jar) with floating editor tools: a text toolbar with the Jeere assistant, a colour tray
-   (Karité, Lagune, Hibiscus, Indigo, Menthe, white) that recolours the store, a product card whose quantity updates
+   (Karité, Lagune, Hibiscus, Indigo, Mangue, Menthe, white: the same bright colours as the store palettes) that recolours the store, a product card whose quantity updates
    the “Paiement Wave reçu” chip, and a pause button. The colours change by themselves every 2.8 s until the visitor
    hovers, focuses or pauses; with reduced motion they start paused. Then “Encaissez comme vos clients paient” with
    the payment methods.
